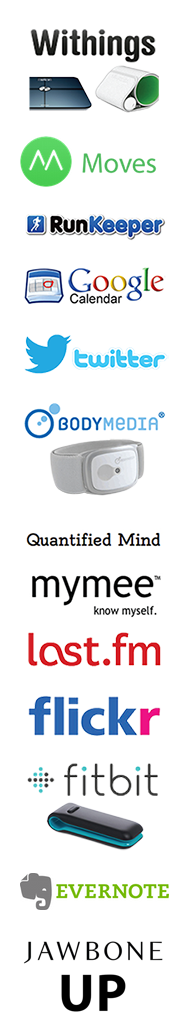
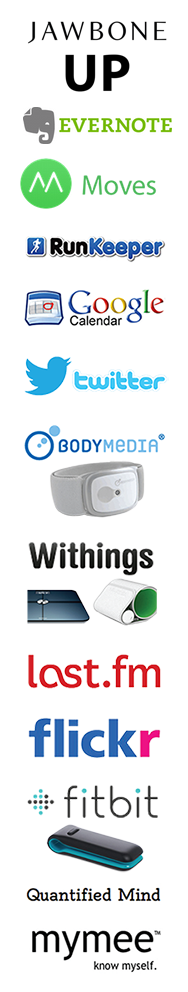
fixed home page image and promote newer connectors

diff --git a/fluxtream-web/src/main/webapp/css/index.css b/fluxtream-web/src/main/webapp/css/index.css
@@ -256,7 +256,7 @@ body, html {
   float: left;
   margin-top: 0px;
   width: 188px;
-  height: 878px;
+  height: 992px;
   margin-left: 8px;
   margin-top: 30px;
   border: 1px solid #a3a3a3;
